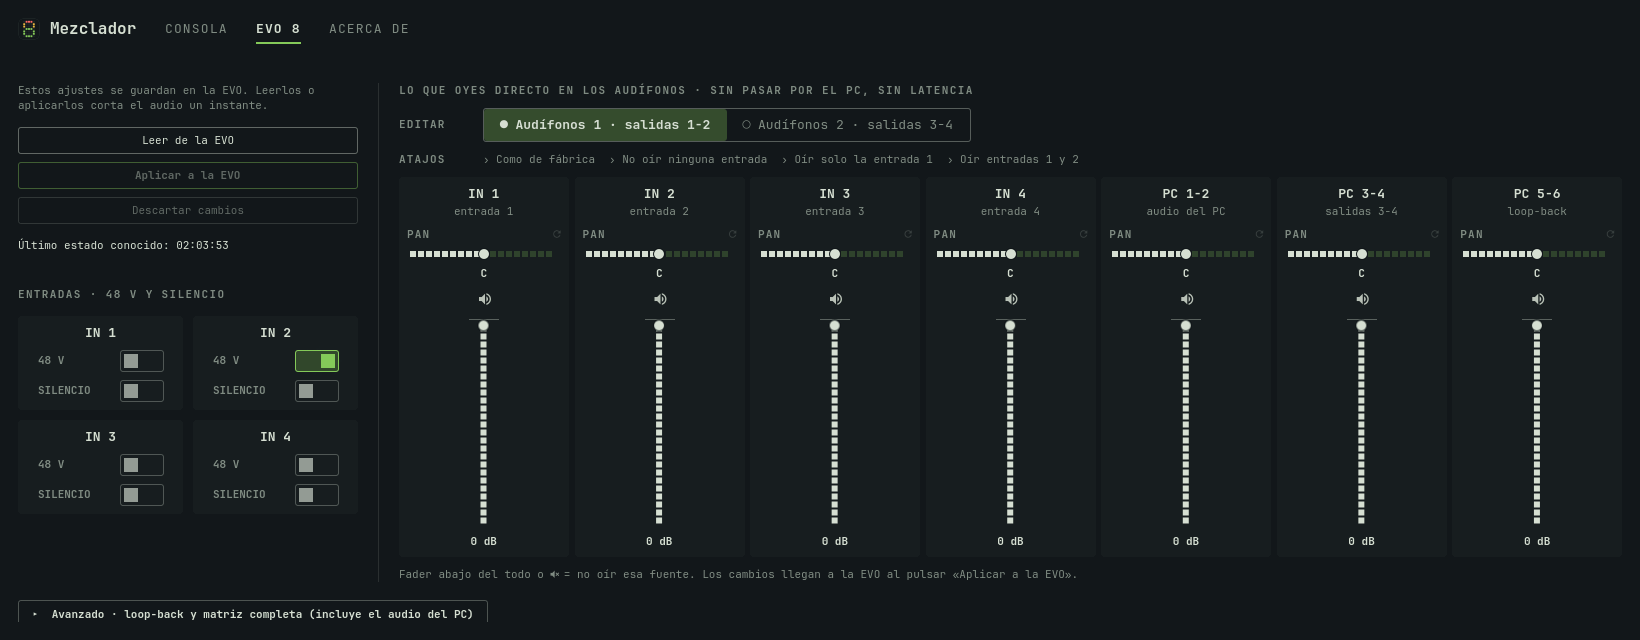
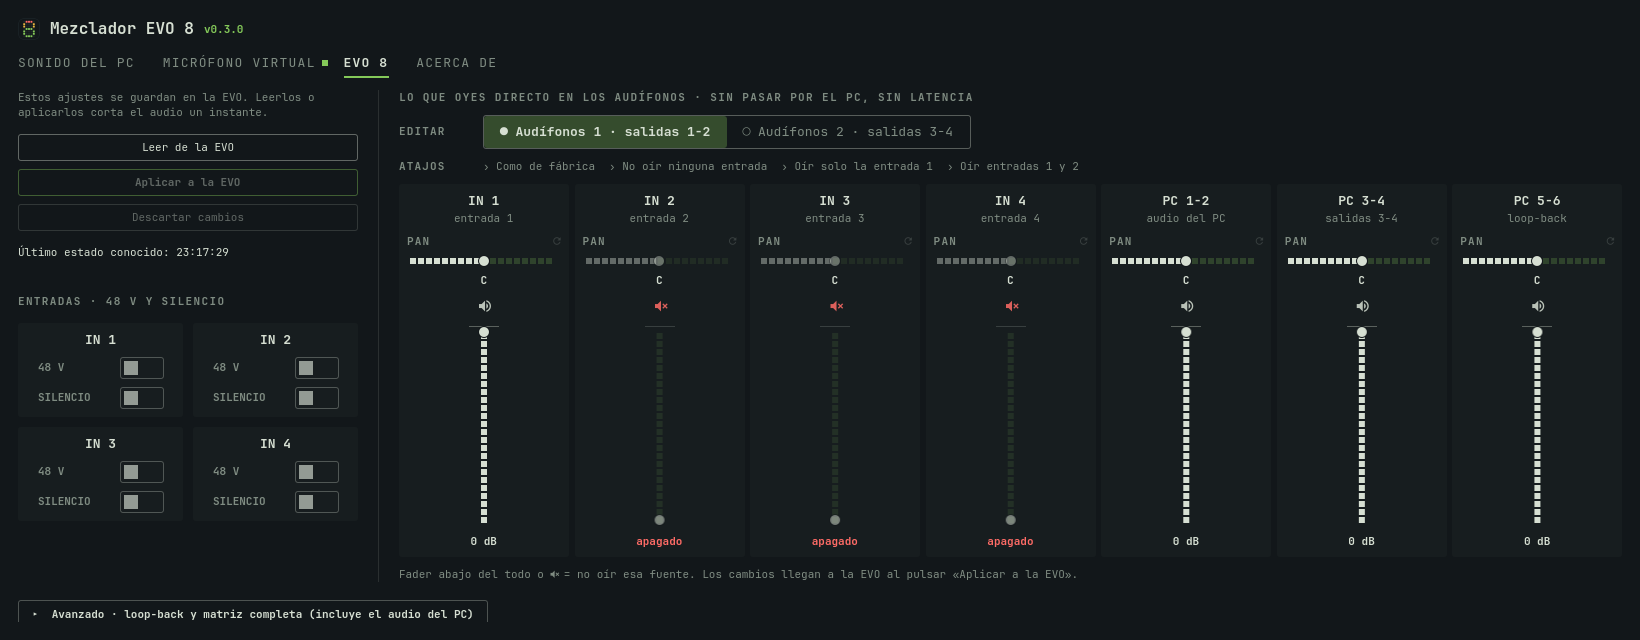
docs: refresh the README screenshots for the new tabs

diff --git a/README.md b/README.md
@@ -25,7 +25,7 @@ Son tres partes separadas, cada una con su pestaña en la ventana:
 | [El sonido del PC](#el-sonido-del-pc) | SONIDO DEL PC | Volúmenes y dispositivos del sistema (PipeWire) |
 | [El micrófono virtual](#el-micrófono-virtual-opcional) | MICRÓFONO VIRTUAL | Un dispositivo virtual que se enciende y se apaga |
 
-![La pestaña CONSOLA del mezclador: entradas, Compartido, la Mezcla, la salida y los perfiles de cada tarjeta](https://raw.githubusercontent.com/wh01s17/evo8-linux/main/docs/img/consola.png)
+![La pestaña SONIDO DEL PC: las cuatro entradas de la EVO con preamp, volumen, medidor y monitor, las apps, la salida seleccionada por pares de canales y los perfiles de cada tarjeta](https://raw.githubusercontent.com/wh01s17/evo8-linux/main/docs/img/sonido.png)
 
 ## Índice
 
@@ -94,6 +94,8 @@ Apagado no existe: no aparece en las apps y el resto del sonido no cambia.
   un click y lo compensa retrasando la música solo hacia la Mezcla.
 - **Monitor de la Mezcla**: escuchar el micrófono completo, tal como lo
   reciben las apps.
+
+![La pestaña MICRÓFONO VIRTUAL encendida: el interruptor arriba, cuánto entra de las entradas 1-2 y de Compartido, el retardo de sincronía con Calibrar, las apps que se pueden mandar a Compartido y la Mezcla con su monitor](https://raw.githubusercontent.com/wh01s17/evo8-linux/main/docs/img/mezcla.png)
 
 ## Instalación
 
